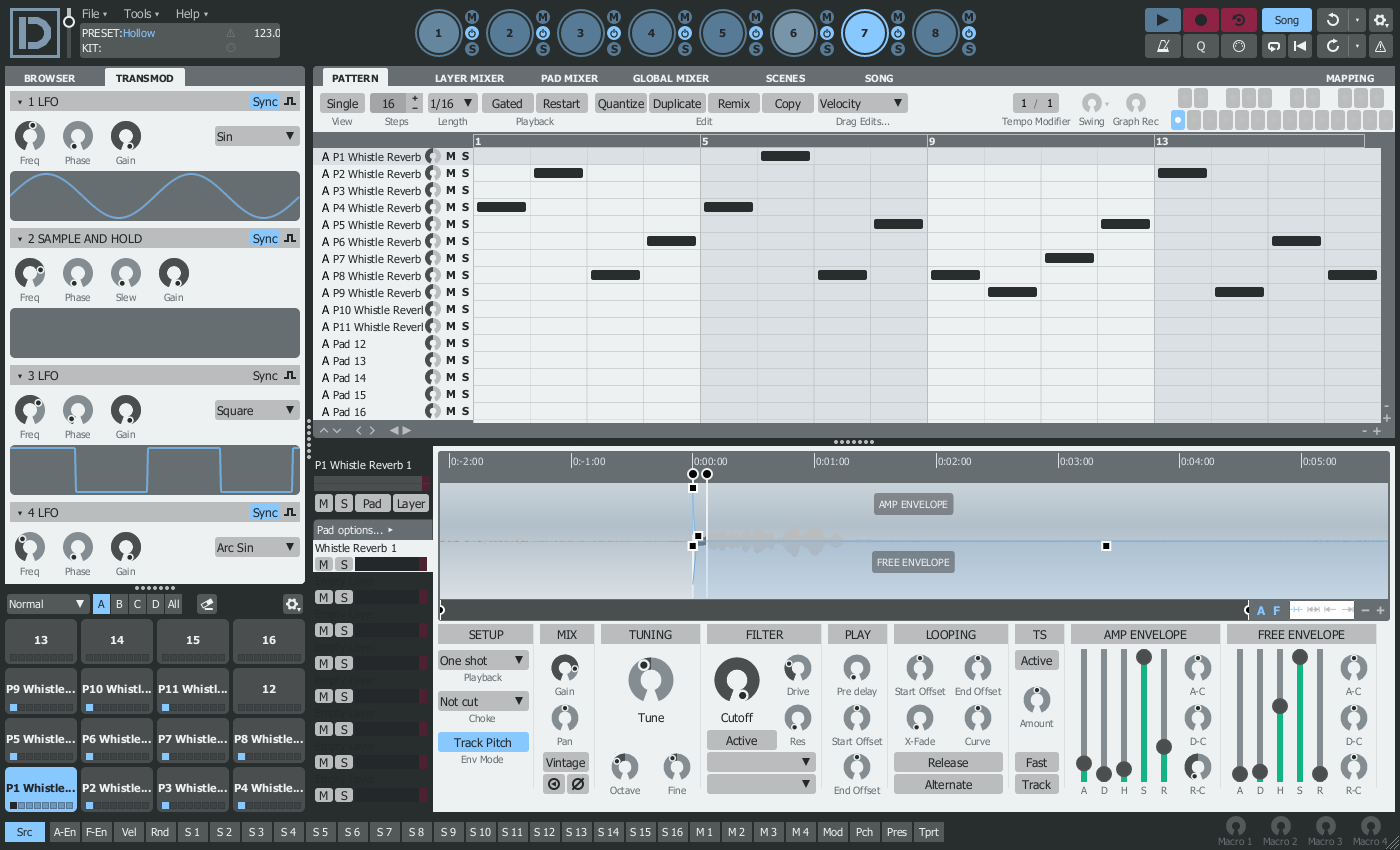
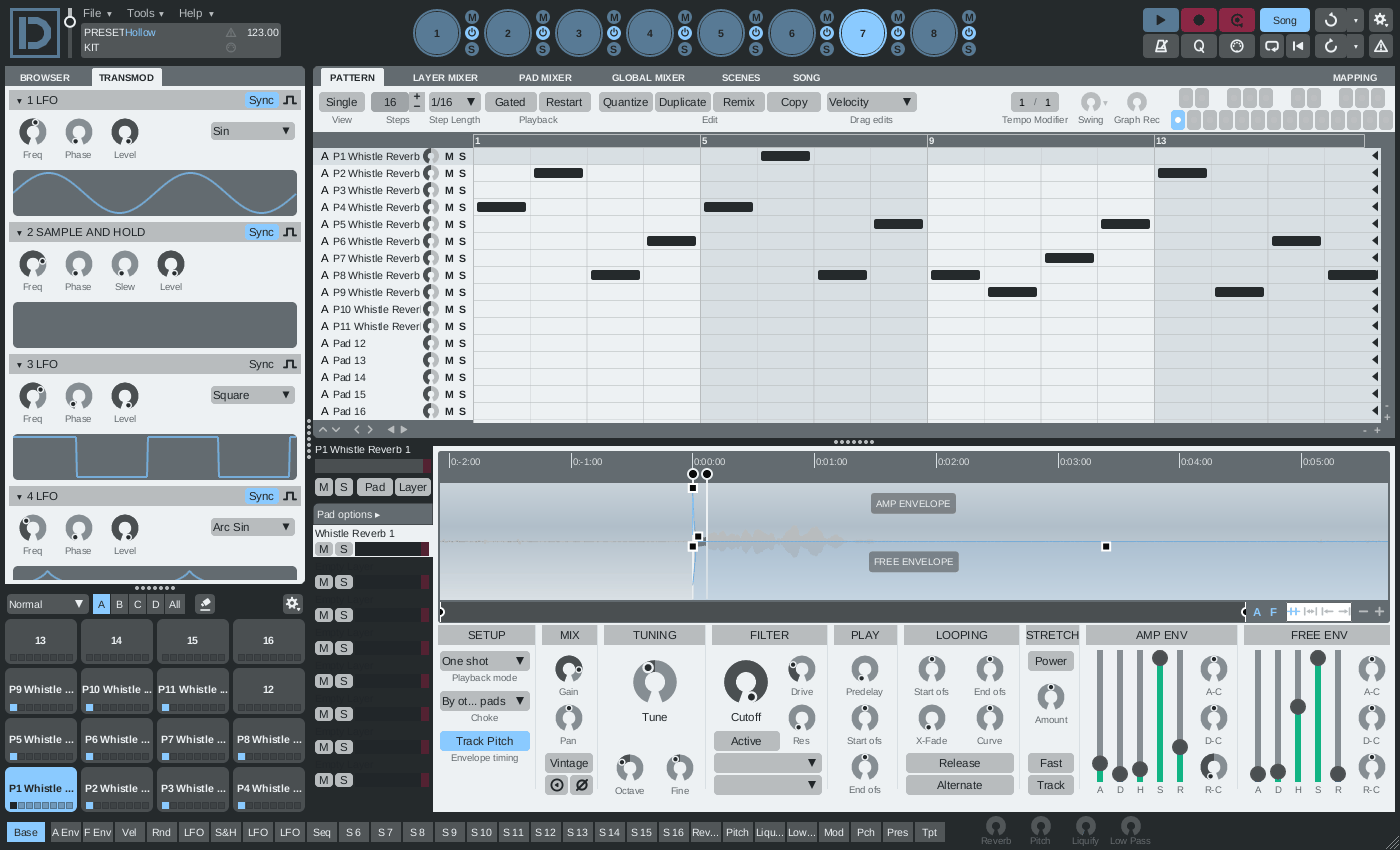
docs: README screenshots of the Hollow and Blister demo projects

diff --git a/README.md b/README.md
@@ -9,7 +9,21 @@
 - Settings: `~/Library/Application Support/Dreist` (Windows: `%APPDATA%\Dreist`).
 - Plugin IDs: CLAP `rs.dreist.dreist`, VST3 class `DreistRsDrumSmp1`.
 
-![Dreist](docs/screenshot.png)
+![Dreist with the Hollow demo project](docs/screenshot.png)
+
+### Screenshots
+
+Hollow and Blister are the two projects of Geist2's free demo library
+(`Geist2 Demo Factory`), opened in Dreist.
+
+| | |
+|---|---|
+| ![Blister: pattern editor and browser](docs/screenshots/blister-pattern.png) | ![Blister: song mode](docs/screenshots/blister-song.png) |
+| Blister: pattern editor and browser | Blister: song mode |
+| ![Blister: pad mixer](docs/screenshots/blister-pad-mixer.png) | ![Hollow: scenes](docs/screenshots/hollow-scenes.png) |
+| Blister: pad mixer | Hollow: scenes |
+| ![Hollow: global mixer](docs/screenshots/hollow-global-mixer.png) | |
+| Hollow: global mixer | |
 
 ## Installation
 
